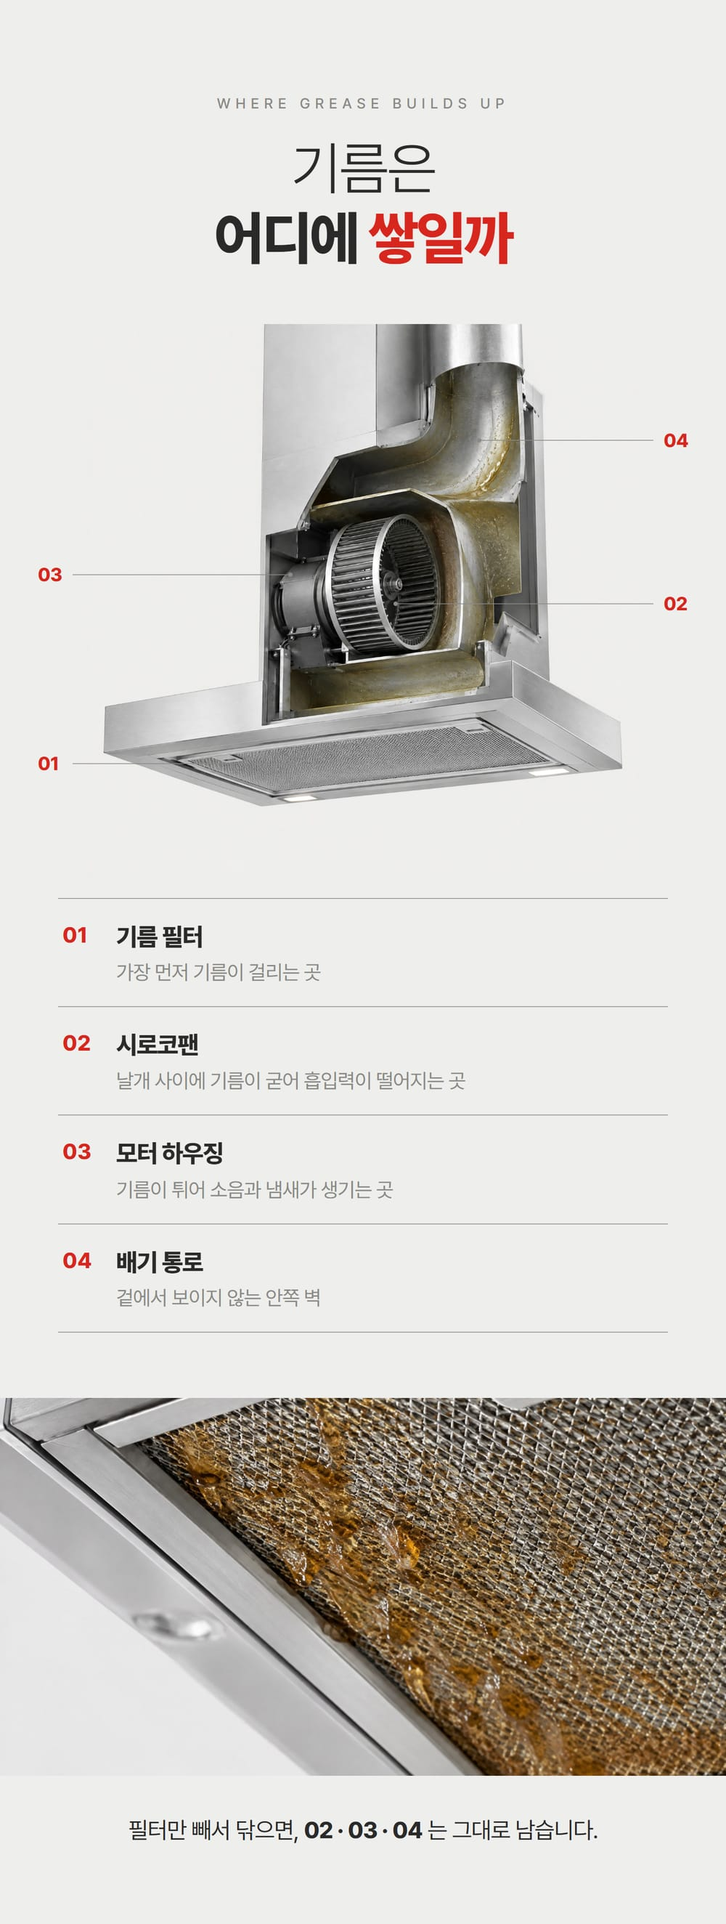
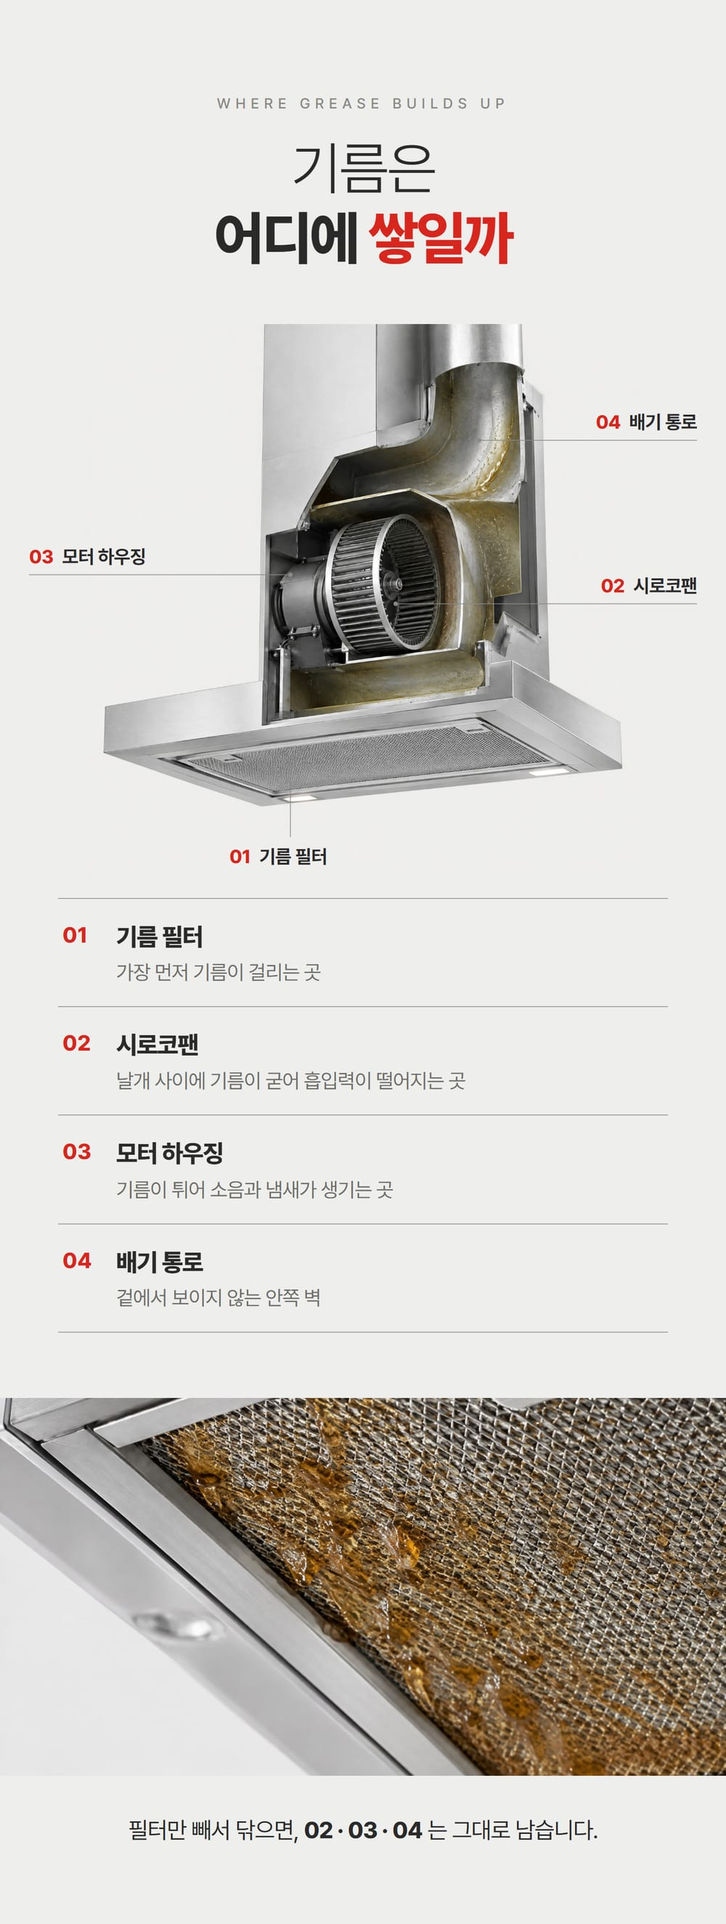
feat: 주방후드 랜딩 업소용 상세·설치 분리, 전화 CTA 애니메이션 강화

diff --git a/public/hood.html b/public/hood.html
@@ -4,13 +4,13 @@
 <meta charset="utf-8">
 <meta name="viewport" content="width=device-width,initial-scale=1,viewport-fit=cover">
 <title>올데이케어 주방후드 분해 청소 · 설치 | 가정용 100,000원~</title>
-<meta name="description" content="주방후드 분해 청소 가정용 100,000원~, 업소용 159,000원~, 후드 설치·교체. 필터·시로코팬·내부 케이싱까지 분해해서 닦습니다. 1866-2003">
+<meta name="description" content="주방후드 분해 청소 가정용 100,000원~, 업소용 159,000원~, 후드 설치·교체. 필터·시로코팬·내부 케이싱까지 분해해서 닦습니다. 1866-2003 업소용 야간 작업 추가금 없음.">
 <meta name="robots" content="noindex">
 <meta property="og:title" content="올데이케어 주방후드 분해 청소 · 설치">
 <link rel="stylesheet" href="https://cdn.jsdelivr.net/npm/pretendard@1.3.9/dist/web/static/pretendard.min.css">
 <style>
-/* 색은 8가지만: #EEEEEC #F6F6F4 #FFFFFF #2A2A2A #B01E17 #D7261E #8A8A86 (그라데이션·둥근 뱃지·그림자 없음) */
-:root{--grey:#EEEEEC;--light:#F6F6F4;--char:#2A2A2A;--deep:#B01E17;--red:#D7261E;--ink:#2A2A2A;--sub:#8A8A86}
+/* 색은 8가지만: #EEEEEC #F6F6F4 #FFFFFF #2A2A2A #B01E17 #D7261E #8A8A86 #6E6E6A (그라데이션·둥근 뱃지·그림자 없음) */
+:root{--grey:#EEEEEC;--light:#F6F6F4;--char:#2A2A2A;--deep:#B01E17;--red:#D7261E;--ink:#2A2A2A;--sub:#8A8A86;--tsub:#6E6E6A}
 *{box-sizing:border-box;margin:0;padding:0}
 html{scroll-behavior:smooth}
 body{font-family:Pretendard,-apple-system,'Noto Sans KR',sans-serif;color:var(--ink);background:var(--grey);overflow-x:clip;word-break:keep-all}
@@ -23,8 +23,8 @@ a{color:inherit;text-decoration:none}
 /* 상단 바 */
 .top{position:sticky;top:0;z-index:30;background:#fff;display:flex;align-items:center;justify-content:space-between;padding:14px 18px;border-bottom:1px solid var(--sub)}
 .logo{font-weight:800;font-size:18px;letter-spacing:-.4px}
-.logo span{font-weight:300;font-size:14px;margin-left:8px;color:var(--sub)}
-.top-tel{font-weight:800;color:var(--red);font-size:17px;letter-spacing:-.3px}
+.logo span{font-weight:400;font-size:14px;margin-left:8px;color:var(--tsub)}
+.top-tel{font-weight:800;color:var(--red);font-size:17px;letter-spacing:-.3px;transform-origin:right center}
 
 /* 통이미지 섹션 */
 .sec{display:block;width:100%;line-height:0;position:relative}
@@ -34,10 +34,30 @@ a{color:inherit;text-decoration:none}
 .sec.missing img{display:none}
 .sec.missing .ph-label{display:flex;position:absolute;inset:0;align-items:center;justify-content:center;text-align:center;padding:24px;font-size:14px;color:var(--sub)}
 
-/* 전화 띠 */
-.tel-band{display:block;background:var(--char);color:#fff;padding:26px 16px;text-align:center}
-.tel-band small{display:block;font-size:13px;font-weight:300;letter-spacing:.02em;color:var(--grey)}
-.tel-band b{display:block;margin-top:6px;font-size:30px;font-weight:800;letter-spacing:-.8px}
+/* 전화 CTA 애니메이션 — 단색 깜빡임·크기·흔들림·파동만 (그라데이션·빛 스침·글로우 없음) */
+@keyframes telFlash{0%,100%{background:#D7261E}50%{background:#B01E17}}
+@keyframes telBeat{0%,60%,100%{transform:scale(1)}66%{transform:scale(1.14)}72%{transform:scale(.97)}78%{transform:scale(1.08)}}
+@keyframes telShake{0%,70%,100%{transform:rotate(0)}73%{transform:rotate(-22deg)}76%{transform:rotate(20deg)}79%{transform:rotate(-16deg)}82%{transform:rotate(12deg)}85%{transform:rotate(-6deg)}}
+@keyframes telRing{0%{transform:scale(1);opacity:.85}100%{transform:scale(2.4);opacity:0}}
+@keyframes telBounce{0%,80%,100%{transform:translateY(0)}86%{transform:translateY(-8px)}92%{transform:translateY(0)}96%{transform:translateY(-3px)}}
+
+/* 전화 띠: 배경이 빨강↔진빨강으로 깜빡, 번호 두근, 아이콘 흔들림 + 파동 3겹 */
+.tel-band{display:flex;align-items:center;justify-content:center;gap:26px;background:#D7261E;color:#fff;padding:30px 16px;text-align:left;overflow:hidden;animation:telFlash 1.2s ease-in-out infinite}
+.tel-band small{display:block;font-size:14px;font-weight:500;letter-spacing:.01em}
+.tel-band b{display:inline-block;margin-top:2px;font-size:36px;font-weight:800;letter-spacing:-1px;line-height:1.1;transform-origin:left center;animation:telBeat 1.6s ease-in-out infinite}
+.tel-band .ico{position:relative;flex:0 0 44px;width:44px;height:44px;display:flex;align-items:center;justify-content:center}
+.tel-band .ico svg{position:relative;animation:telShake 1.6s ease-in-out infinite}
+.tel-band .ico::before,.tel-band .ico::after,.tel-band .ico i{content:"";position:absolute;inset:0;border-radius:50%;border:3px solid #fff;animation:telRing 1.6s ease-out infinite}
+.tel-band .ico::after{animation-delay:.53s}
+.tel-band .ico i{animation-delay:1.06s}
+
+/* 접수 유도 띠 (아래 폼 위) */
+.go-band{display:block;background:var(--char);color:#fff;padding:26px 16px;text-align:center;border-top:1px solid var(--sub)}
+.go-band small{display:block;font-size:14px;font-weight:400;color:var(--grey)}
+.go-band b{display:block;margin-top:6px;font-size:26px;font-weight:800;letter-spacing:-.8px}
+
+/* 상단 번호: 두근 */
+.top-tel{display:inline-block;animation:telBeat 1.6s ease-in-out infinite}
 
 /* 접수 폼 */
 .apply{background:var(--light);padding:44px 18px 48px}
@@ -46,13 +66,13 @@ a{color:inherit;text-decoration:none}
 .card h3{margin-top:10px;font-size:26px;font-weight:800;letter-spacing:-.8px;text-align:center}
 .card h3 em{font-style:normal;font-weight:300}
 .card .bar{width:40px;height:1px;background:var(--red);margin:18px auto 0}
-.card .hint{font-size:14px;color:var(--sub);margin-top:16px;text-align:center}
+.card .hint{font-size:14px;color:var(--tsub);margin-top:16px;text-align:center}
 .f{margin-top:14px}
 .f label{display:block;font-size:13px;font-weight:700;margin-bottom:6px}
 .f input,.f select{width:100%;height:50px;border:1px solid var(--sub);border-radius:0;padding:0 14px;font-size:16px;font-family:inherit;color:var(--ink);background:#fff;-webkit-appearance:none;appearance:none}
 .f input:focus,.f select:focus{outline:none;border-color:var(--ink)}
 .f2{display:grid;grid-template-columns:1fr 1fr;gap:10px}
-.agree{display:flex;align-items:center;gap:8px;margin-top:16px;font-size:13.5px;color:var(--sub)}
+.agree{display:flex;align-items:center;gap:8px;margin-top:16px;font-size:13.5px;color:var(--tsub)}
 .agree input{width:20px;height:20px;accent-color:var(--ink)}
 .agree a{text-decoration:underline}
 .btn{display:block;width:100%;height:58px;border:0;border-radius:0;background:var(--char);color:#fff;font-size:18px;font-weight:800;font-family:inherit;margin-top:18px;cursor:pointer}
@@ -61,16 +81,19 @@ a{color:inherit;text-decoration:none}
 .msg.ok{display:block;font-weight:700}
 .msg.err{display:block;color:var(--deep)}
 
-footer{padding:28px 22px 36px;font-size:12px;color:var(--sub);line-height:1.75;border-top:1px solid var(--sub)}
+footer{padding:28px 22px 36px;font-size:12px;color:var(--tsub);line-height:1.75;border-top:1px solid var(--sub)}
 footer b{color:var(--ink)}
 
 /* 하단 고정 바 */
 .fixed{position:fixed;left:50%;transform:translateX(-50%);bottom:0;width:100%;max-width:1000px;display:grid;grid-template-columns:1fr 1fr;gap:8px;padding:10px 12px calc(10px + env(safe-area-inset-bottom));background:#fff;border-top:1px solid var(--sub);z-index:40}
 .fixed a{height:54px;display:flex;align-items:center;justify-content:center;font-weight:800;font-size:16px}
-.fixed .call{background:#fff;color:var(--red);border:1px solid var(--ink)}
+/* 하단 고정 전화 버튼: 통통 튀기 + 깜빡 + 아이콘 흔들림 */
+.fixed a{gap:8px}
+.fixed .call{background:#D7261E;color:#fff;animation:telBounce 2.2s ease-in-out infinite,telFlash 1.2s ease-in-out infinite}
+.fixed .call svg{animation:telShake 1.6s ease-in-out infinite}
 .fixed .go{background:var(--char);color:#fff}
 
-@media (prefers-reduced-motion:reduce){*,*::before,*::after{transition:none!important}.reveal{opacity:1;transform:none}}
+@media (prefers-reduced-motion:reduce){*,*::before,*::after{transition:none!important}.reveal{opacity:1;transform:none}.tel-band,.tel-band *,.fixed .call,.fixed .call *,.top-tel{animation:none!important}}
 </style>
 </head>
 <body>
@@ -81,11 +104,12 @@ footer b{color:var(--ink)}
   <a class="top-tel" href="tel:18662003">1866-2003</a>
 </header>
 
-<!-- 이미지 파일: public/img/hood/s1.jpg ~ s8.jpg -->
+<!-- 이미지 파일: public/img/hood/s1.jpg ~ s8.jpg + s6b.jpg (9장) -->
 <div class="sec" data-img="img/hood/s1.jpg" data-alt="겉면은 깨끗해도, 기름은 안쪽에 쌓입니다. 올데이케어 주방후드 분해 청소. 가정용 100,000원~, 업소용 159,000원~, 후드 설치" data-label="S1 히어로"></div>
 
 <a class="tel-band" href="tel:18662003">
-  <small>누르면 바로 연결</small><b>1866-2003</b>
+  <span class="ico"><i></i><svg width="26" height="26" viewBox="0 0 24 24" fill="#fff"><path d="M6.6 10.8a15.1 15.1 0 0 0 6.6 6.6l2.2-2.2a1 1 0 0 1 1-.25 11.4 11.4 0 0 0 3.6.57 1 1 0 0 1 1 1V20a1 1 0 0 1-1 1A17 17 0 0 1 3 4a1 1 0 0 1 1-1h3.5a1 1 0 0 1 1 1c0 1.25.2 2.45.57 3.57a1 1 0 0 1-.25 1z"/></svg></span>
+  <span><small>지금 누르면 바로 연결</small><b>1866-2003</b></span>
 </a>
 
 <!-- 접수 폼 1 : 히어로 바로 아래 -->
@@ -102,7 +126,7 @@ footer b{color:var(--ink)}
       </div>
       <div class="f2">
         <div class="f"><label>종류</label>
-          <select name="kind"><option value="home">가정용 청소</option><option value="biz">업소용 청소</option><option value="install">후드 설치</option></select></div>
+          <select name="kind"><option value="">선택해 주세요</option><option value="home">가정용 청소</option><option value="biz">업소용 청소</option><option value="install">후드 설치</option></select></div>
         <div class="f"><label>후드 대수</label>
           <select name="qty"><option value="1ea">1대</option><option value="2ea">2대</option><option value="3ea">3대 이상</option></select></div>
       </div>
@@ -125,12 +149,18 @@ footer b{color:var(--ink)}
 <div class="sec" data-img="img/hood/s5.jpg" data-alt="더 확실하게. 작업 전후 사진, 추가금은 작업 전에만, 작동 확인 후 결제" data-label="S5 더 확실하게"></div>
 
 <a class="tel-band" href="tel:18662003">
-  <small>가정용 · 업소용 · 설치 상담</small><b>1866-2003</b>
+  <span class="ico"><i></i><svg width="26" height="26" viewBox="0 0 24 24" fill="#fff"><path d="M6.6 10.8a15.1 15.1 0 0 0 6.6 6.6l2.2-2.2a1 1 0 0 1 1-.25 11.4 11.4 0 0 0 3.6.57 1 1 0 0 1 1 1V20a1 1 0 0 1-1 1A17 17 0 0 1 3 4a1 1 0 0 1 1-1h3.5a1 1 0 0 1 1 1c0 1.25.2 2.45.57 3.57a1 1 0 0 1-.25 1z"/></svg></span>
+  <span><small>지금 누르면 바로 연결</small><b>1866-2003</b></span>
 </a>
 
-<div class="sec" data-img="img/hood/s6.jpg" data-alt="식당 후드도, 설치도. 업소용 후드 청소, 후드 설치·교체" data-label="S6 업소용 · 설치"></div>
+<div class="sec" data-img="img/hood/s6.jpg" data-alt="영업은 그대로, 후드는 깨끗하게. 야간 작업 추가금 0원, 영업 중단 0시간, 업소용 시작가 15.9만원~ (VAT 별도)" data-label="S6 업소용 상세"></div>
+<div class="sec" data-img="img/hood/s6b.jpg" data-alt="후드 설치 · 교체, 현장 확인 후 견적" data-label="S6b 후드 설치 · 교체"></div>
 <div class="sec" data-img="img/hood/s7.jpg" data-alt="가격부터 보여드립니다. 가정용 후드 청소 100,000원~, 업소용 후드 청소 159,000원~, 후드 설치·교체 현장 견적. VAT 별도" data-label="S7 가격"></div>
 <div class="sec" data-img="img/hood/s8.jpg" data-alt="접수부터 완료까지 5단계. 기름 냄새, 이번 주에 끝내세요. 1866-2003" data-label="S8 진행 · 마지막"></div>
+
+<a class="go-band" href="#apply2">
+  <small>업소는 마감 후 야간 작업 · 추가금 없음</small><b>간편 접수</b>
+</a>
 
 <!-- 접수 폼 2 : 맨 아래 -->
 <section class="apply" id="apply2">
@@ -146,7 +176,7 @@ footer b{color:var(--ink)}
       </div>
       <div class="f2">
         <div class="f"><label>종류</label>
-          <select name="kind"><option value="home">가정용 청소</option><option value="biz">업소용 청소</option><option value="install">후드 설치</option></select></div>
+          <select name="kind"><option value="">선택해 주세요</option><option value="home">가정용 청소</option><option value="biz">업소용 청소</option><option value="install">후드 설치</option></select></div>
         <div class="f"><label>후드 대수</label>
           <select name="qty"><option value="1ea">1대</option><option value="2ea">2대</option><option value="3ea">3대 이상</option></select></div>
       </div>
@@ -170,7 +200,7 @@ footer b{color:var(--ink)}
 </footer>
 
 <nav class="fixed">
-  <a class="call" href="tel:18662003">1866-2003</a>
+  <a class="call" href="tel:18662003"><svg width="18" height="18" viewBox="0 0 24 24" fill="#fff"><path d="M6.6 10.8a15.1 15.1 0 0 0 6.6 6.6l2.2-2.2a1 1 0 0 1 1-.25 11.4 11.4 0 0 0 3.6.57 1 1 0 0 1 1 1V20a1 1 0 0 1-1 1A17 17 0 0 1 3 4a1 1 0 0 1 1-1h3.5a1 1 0 0 1 1 1c0 1.25.2 2.45.57 3.57a1 1 0 0 1-.25 1z"/></svg>1866-2003</a>
   <a class="go" href="#apply" id="goForm">간편 접수</a>
 </nav>
 </div>
@@ -224,13 +254,14 @@ document.querySelectorAll('.lead-form').forEach((form,idx)=>{
     e.preventDefault();
     const name=q('name').value.trim(), phone=q('phone').value.replace(/\D/g,''), addr=q('addr').value.trim();
     const kv=q('kind').value, qv=q('qty').value, date=q('date').value;
-    const kind=(kv==='home'||kv==='biz'||kv==='install')?kv:'home';
     const qty=(qv==='1ea'||qv==='2ea'||qv==='3ea')?qv:'1ea';
     // 시간대: am / pm / any 만 허용. 선택 안 함·빈 값·그 밖의 값은 모두 any
     const tv=String(q('time').value||'').trim();
     const time=(tv==='am'||tv==='pm'||tv==='any')?tv:'any';
     if(!name) return show('성함을 적어주세요');
     if(phone.length<10) return show('연락처를 확인해주세요');
+    if(kv!=='home'&&kv!=='biz'&&kv!=='install') return show('종류를 선택해 주세요');
+    const kind=kv;
     if(!addr) return show('지역을 적어주세요');
     if(!q('agree').checked) return show('개인정보 수집·이용에 동의해주세요');
     btn.disabled=true; btn.textContent='접수 중…';

diff --git a/design/hood/sections/s6.html b/design/hood/sections/s6.html
@@ -1,36 +1,59 @@
 <!doctype html>
 <html lang="ko"><head><meta charset="utf-8"><link rel="stylesheet" href="style.css">
 <style>
-  .s6 { padding-bottom: 110px; }
-  .s6 .full { height: 600px; object-fit: cover; }
-  .s6 .first { margin-top: 84px; }
-  .s6 .blk { text-align: left; padding: 64px 80px 76px; }
-  .s6 .blk h3 { font-size: 44px; font-weight: 800; letter-spacing: -0.04em; }
-  .s6 .blk .checks { display: block; margin-top: 30px; }
-  .s6 .blk.last { padding-bottom: 0; }
-  .s6 .hr { margin: 0 80px 76px; }
+  .s6 { padding-bottom: 120px; }
+  .s6 .who { margin-top: 36px; font-size: 30px; font-weight: 400; letter-spacing: -0.03em; color: var(--text-sub); }
+  .s6 .full { height: 600px; object-fit: cover; margin-top: 80px; }
+
+  /* 큰 숫자 3단 — 칸 사이 1px 세로선만 */
+  .s6 .nums { display: grid; grid-template-columns: 1fr 1.12fr 1.36fr; margin: 90px 30px 0; }
+  .s6 .nums > div { padding: 6px 8px 10px; }
+  .s6 .nums > div + div { border-left: 1px solid var(--sub); }
+  .s6 .nums .big { font-size: 120px; font-weight: 800; letter-spacing: -0.055em; line-height: 1; color: var(--red); white-space: nowrap; }
+  .s6 .nums .big small { font-size: 36px; font-weight: 800; letter-spacing: -0.04em; margin-left: 4px; }
+  .s6 .nums b { display: block; margin-top: 30px; font-size: 32px; font-weight: 800; letter-spacing: -0.04em; color: var(--ink); white-space: nowrap; }
+  .s6 .nums span { display: block; margin-top: 10px; font-size: 28px; font-weight: 400; letter-spacing: -0.05em; color: var(--text-sub); white-space: nowrap; }
+
+  .s6 .hr { margin: 100px 80px 0; }
+  .s6 h3 { margin-top: 100px; font-size: 48px; font-weight: 800; letter-spacing: -0.04em; }
+  .s6 .rows { margin-top: 56px; }
+  .s6 .rows .row { padding: 34px 6px; align-items: flex-start; }
+  .s6 .rows .n { flex: 0 0 84px; font-size: 32px; font-weight: 800; color: var(--red); line-height: 1.3; }
+  .s6 .rows b { line-height: 1.3; }
+  .s6 .foot { margin-top: 80px; font-size: 28px; font-weight: 400; letter-spacing: -0.03em; color: var(--text-sub); }
 </style></head>
 <body>
 <section class="sec s6 bg-white">
-  <p class="eyebrow">COMMERCIAL &amp; INSTALLATION</p>
-  <h2 class="title"><span class="l">식당 후드도,</span><br>설치도</h2>
+  <p class="eyebrow">FOR RESTAURANTS</p>
+  <h2 class="title"><span class="l">영업은 그대로,</span><br>후드는 <span class="red">깨끗하게</span></h2>
+  <p class="who">식당 · 카페 · 급식소 · 프랜차이즈 매장</p>
 
-  <img class="full first" src="../photos/h7_biz.jpg" alt="">
-  <div class="blk">
-    <h3>업소용 후드 청소</h3>
-    <ul class="checks">
-      <li><svg class="ck" viewBox="0 0 24 24"><path d="M4 12.5l5.5 5.5L20 6.5"/></svg><span>대형 후드 본체 · 기름 필터 · 기름 받이</span></li>
-      <li><svg class="ck" viewBox="0 0 24 24"><path d="M4 12.5l5.5 5.5L20 6.5"/></svg><span>외부 스테인리스 광택까지</span></li>
-    </ul>
+  <img class="full" src="../photos/h7_biz.jpg" alt="">
+
+  <div class="nums">
+    <div><p class="big">0<small>원</small></p><b>야간 작업 추가금</b><span>밤에 가도 같은 가격</span></div>
+    <div><p class="big">0<small>시간</small></p><b>영업 중단</b><span>마감 후 · 오픈 전에 작업</span></div>
+    <div><p class="big">15.9<small>만원~</small></p><b>업소용 시작가</b><span>VAT 별도</span></div>
   </div>
+
   <div class="hr"></div>
-  <img class="full" src="../photos/h8_install.jpg" alt="">
-  <div class="blk last">
-    <h3>후드 설치 · 교체</h3>
-    <ul class="checks">
-      <li><svg class="ck" viewBox="0 0 24 24"><path d="M4 12.5l5.5 5.5L20 6.5"/></svg><span>노후 후드 철거 후 새 후드 설치</span></li>
-      <li><svg class="ck" viewBox="0 0 24 24"><path d="M4 12.5l5.5 5.5L20 6.5"/></svg><span>현장 확인 후 견적을 먼저 드립니다</span></li>
-    </ul>
+  <h3>영업시간을 피해서 갑니다</h3>
+  <div class="pad">
+    <div class="rows">
+      <div class="row"><div class="n">01</div><div><b>마감 후 방문</b><span>손님이 없는 시간에 들어갑니다</span></div></div>
+      <div class="row"><div class="n">02</div><div><b>분해 · 세척</b><span>후드 본체 · 필터 · 기름 받이까지</span></div></div>
+      <div class="row"><div class="n">03</div><div><b>오픈 전 완료</b><span>다음 영업 전에 끝내고 사진으로 보고</span></div></div>
+    </div>
   </div>
+
+  <div class="hr"></div>
+  <h3>업소용 청소 범위</h3>
+  <ul class="checks">
+    <li><svg class="ck" viewBox="0 0 24 24"><path d="M4 12.5l5.5 5.5L20 6.5"/></svg><span>대형 후드 <b>본체 안팎</b></span></li>
+    <li><svg class="ck" viewBox="0 0 24 24"><path d="M4 12.5l5.5 5.5L20 6.5"/></svg><span>기름 필터 <b>분리 세척</b></span></li>
+    <li><svg class="ck" viewBox="0 0 24 24"><path d="M4 12.5l5.5 5.5L20 6.5"/></svg><span>기름 받이 · 홈통 <b>기름 제거</b></span></li>
+    <li><svg class="ck" viewBox="0 0 24 24"><path d="M4 12.5l5.5 5.5L20 6.5"/></svg><span>외부 스테인리스 <b>광택 마무리</b></span></li>
+  </ul>
+  <p class="foot">후드 크기 · 개수 · 기름 상태를 보고 견적을 먼저 문자로 드립니다</p>
 </section>
 </body></html>

diff --git a/design/hood/sections/s2.html b/design/hood/sections/s2.html
@@ -21,15 +21,15 @@
   <div class="fig">
     <img src="../photos/h2_cutaway.jpg" alt="">
     <svg class="lines" viewBox="0 0 1000 760">
-      <polyline points="400,605 100,605"/><circle cx="400" cy="605" r="3"/>
-      <polyline points="545,385 900,385"/><circle cx="545" cy="385" r="3"/>
-      <polyline points="400,345 100,345"/><circle cx="400" cy="345" r="3"/>
-      <polyline points="660,160 900,160"/><circle cx="660" cy="160" r="3"/>
+      <polyline points="400,608 400,706"/><circle cx="400" cy="608" r="3"/>
+      <polyline points="545,385 960,385"/><circle cx="545" cy="385" r="3"/>
+      <polyline points="400,345 40,345"/><circle cx="400" cy="345" r="3"/>
+      <polyline points="660,160 960,160"/><circle cx="660" cy="160" r="3"/>
     </svg>
-    <span class="lb" style="left:52px;top:592px"><i>01</i></span>
-    <span class="lb" style="left:914px;top:372px"><i>02</i></span>
-    <span class="lb" style="left:52px;top:332px"><i>03</i></span>
-    <span class="lb" style="left:914px;top:147px"><i>04</i></span>
+    <span class="lb" style="left:316px;top:720px"><i>01</i>기름 필터</span>
+    <span class="lb r" style="right:40px;top:347px"><i>02</i>시로코팬</span>
+    <span class="lb" style="left:40px;top:307px"><i>03</i>모터 하우징</span>
+    <span class="lb r" style="right:40px;top:122px"><i>04</i>배기 통로</span>
   </div>
 
   <div class="pad">

diff --git a/design/hood/sections/style.css b/design/hood/sections/style.css
@@ -9,7 +9,8 @@
   --deep-red: #B01E17;
   --red: #D7261E;
   --ink: #2A2A2A;
-  --sub: #8A8A86;
+  --sub: #8A8A86;       /* 가는 선 · 영문 소제목 */
+  --text-sub: #6E6E6A;  /* 보조 글씨 */
 }
 
 * { box-sizing: border-box; margin: 0; padding: 0; }
@@ -53,7 +54,7 @@ html, body {
 .rows { margin-top: 70px; text-align: left; border-top: 1px solid var(--sub); }
 .rows .row { display: flex; align-items: center; padding: 40px 6px; border-bottom: 1px solid var(--sub); }
 .rows .row b { display: block; font-size: 36px; font-weight: 800; letter-spacing: -0.035em; }
-.rows .row span { display: block; margin-top: 10px; font-size: 28px; font-weight: 400; letter-spacing: -0.03em; color: var(--sub); }
+.rows .row span { display: block; margin-top: 10px; font-size: 28px; font-weight: 400; letter-spacing: -0.03em; color: var(--text-sub); }
 
 /* 지시선 라벨 */
 .fig { position: relative; }
@@ -62,3 +63,4 @@ html, body {
 .fig svg.lines circle { fill: var(--sub); }
 .fig .lb { position: absolute; font-size: 26px; font-weight: 700; letter-spacing: -0.02em; white-space: nowrap; line-height: 1; }
 .fig .lb i { font-style: normal; color: var(--red); margin-right: 12px; font-weight: 800; }
+.fig .lb.r { text-align: right; }

diff --git a/design/hood/sections/s6b.html b/design/hood/sections/s6b.html
@@ -1,0 +1,20 @@
+<!doctype html>
+<html lang="ko"><head><meta charset="utf-8"><link rel="stylesheet" href="style.css">
+<style>
+  .s6b .full { height: 620px; object-fit: cover; margin-top: 84px; }
+  .s6b .checks { margin-top: 80px; }
+  .s6b .foot { margin-top: 64px; font-size: 28px; font-weight: 400; letter-spacing: -0.03em; color: var(--text-sub); }
+</style></head>
+<body>
+<section class="sec s6b bg-light">
+  <p class="eyebrow">INSTALLATION</p>
+  <h2 class="title"><span class="l">낡은 후드는</span><br>새 후드로</h2>
+  <img class="full" src="../photos/h8_install.jpg" alt="">
+  <ul class="checks">
+    <li><svg class="ck" viewBox="0 0 24 24"><path d="M4 12.5l5.5 5.5L20 6.5"/></svg><span>노후 후드 <b>철거 · 수거</b></span></li>
+    <li><svg class="ck" viewBox="0 0 24 24"><path d="M4 12.5l5.5 5.5L20 6.5"/></svg><span>새 후드 <b>설치 · 배기 연결</b></span></li>
+    <li><svg class="ck" viewBox="0 0 24 24"><path d="M4 12.5l5.5 5.5L20 6.5"/></svg><span>설치 후 <b>작동 확인</b></span></li>
+  </ul>
+  <p class="foot">현장 확인 후 견적을 먼저 드립니다</p>
+</section>
+</body></html>

diff --git a/design/hood/sections/s7.html b/design/hood/sections/s7.html
@@ -6,7 +6,7 @@
   .s7 .rows .won { font-size: 64px; font-weight: 800; letter-spacing: -0.04em; line-height: 1; color: var(--ink); }
   .s7 .rows .won small { font-size: 30px; font-weight: 500; letter-spacing: -0.02em; margin-left: 4px; }
   .s7 .rows .won.txt { font-size: 44px; }
-  .s7 .vat { margin-top: 44px; font-size: 26px; font-weight: 400; letter-spacing: -0.02em; color: var(--sub); }
+  .s7 .vat { margin-top: 44px; font-size: 26px; font-weight: 400; letter-spacing: -0.02em; color: var(--text-sub); }
 </style></head>
 <body>
 <section class="sec s7 bg-grey pad">

diff --git a/design/hood/sections/s4.html b/design/hood/sections/s4.html
@@ -4,7 +4,7 @@
   .s4 .pair { display: flex; gap: 12px; margin-top: 84px; }
   .s4 .pair figure { flex: 1; }
   .s4 .pair img { display: block; width: 494px; height: 400px; object-fit: cover; }
-  .s4 .pair figcaption { margin-top: 22px; font-size: 26px; font-weight: 500; letter-spacing: -0.02em; color: var(--sub); }
+  .s4 .pair figcaption { margin-top: 22px; font-size: 26px; font-weight: 500; letter-spacing: -0.02em; color: var(--text-sub); }
 </style></head>
 <body>
 <section class="sec s4 bg-white">
